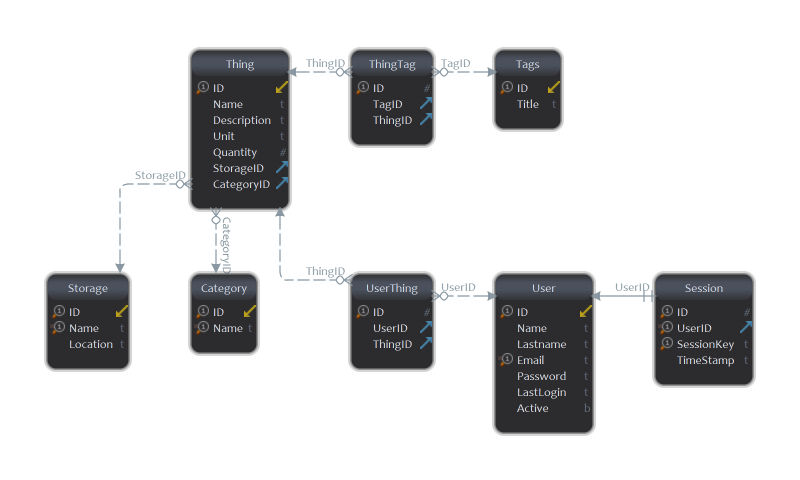
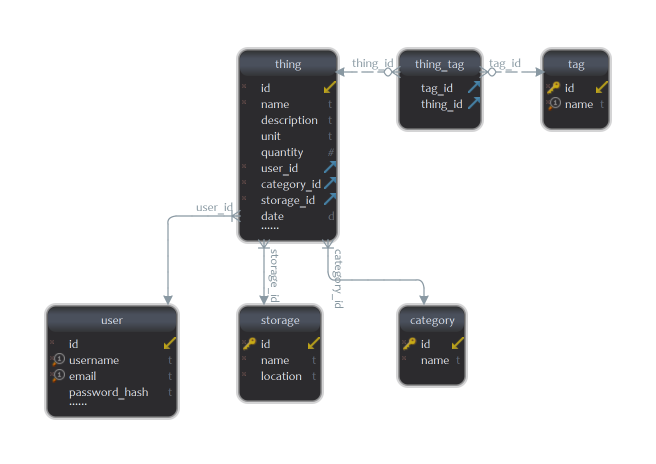
Fix sql schema and README file, fix minor tipo on things view

diff --git a/things_organizer/templates/_sidebar.html b/things_organizer/templates/_sidebar.html
@@ -14,7 +14,7 @@
           <div class="dropdown-divider"></div>
         {% endif %}
         <!--<h6 class="dropdown-header">Logs:</h6>-->
-        <!--<a class="dropdown-item" href="{{ url_for('logs') }}">View logs</a>-->
+        <!--<a class="dropdown-item" href="">View logs</a>-->
         <!--<div class="dropdown-divider"></div>-->
         <h6 class="dropdown-header">Others:</h6>
         <a class="dropdown-item" href="/about">About</a>

diff --git a/things_organizer/db/db_models.py b/things_organizer/db/db_models.py
@@ -142,7 +142,7 @@ class Category(database.Model):
     """
 
     id = database.Column(database.Integer, primary_key=True)
-    name = database.Column(database.String(50), nullable=False)
+    name = database.Column(database.String(50), unique=True, nullable=False)
 
     def __repr__(self):
         return '<Category %r>' % self.name
@@ -155,7 +155,7 @@ class Storage(database.Model):
     """
 
     id = database.Column(database.Integer, primary_key=True)
-    name = database.Column(database.String(50), nullable=False)
+    name = database.Column(database.String(50), unique=True, nullable=False)
     location = database.Column(database.String(120), nullable=False)
 
     def __repr__(self):

diff --git a/things_organizer/__init__.py b/things_organizer/__init__.py
@@ -20,7 +20,8 @@ from things_organizer.api import categories, storages, tags
 
 
 app = flask.Flask(__name__, static_url_path="/static")
-app.config['SQLALCHEMY_DATABASE_URI'] = "sqlite:///{}".format(os.path.join(utils.DB_PATH, "test.db"))  # common.DB_NAME
+app.config['SQLALCHEMY_DATABASE_URI'] = "sqlite:///{}".format(os.path.join(utils.DB_PATH,
+                                                                           "test.db"))
 app.config['SECRET_KEY'] = os.urandom(16)
 
 DB = SQLAlchemy(app)

diff --git a/things_organizer/views.py b/things_organizer/views.py
@@ -83,7 +83,7 @@ def handle_add_thing():
                                     unit=unit, quantity=quantity)
         DB.session.add(thing_obj)
         DB.session.commit()
-        flask.flash("Stored '{}'".format(thing_obj.description))
+        flask.flash("Stored '{}'".format(thing_obj.name))
         template_return = flask.redirect(flask.url_for('handle_things'))
     else:
         template_return = flask.render_template('add_thing.html', form=form)

diff --git a/README.md b/README.md
@@ -55,43 +55,33 @@ For tables in the database we have use the Pascal Case
 (a.k.a [Upper Camel Case](https://en.wikipedia.org/wiki/Camel_case)) and the tables on the database
 are the following:
 
-* **Thing**
-    * ID `int`
-    * Name `str`
-    * Description `str`
-    * Unit `str`
-    * Quantity `int`
-    * StorageID `int`
-    * CategoryID `int`
-* **Category**
-    * ID `int`
-    * Name `str`
-* **Session**
-    * ID  `int`
-    * UserID `int`
-    * SessionKey `str`
-    * Timestamp `int`
-* **Storage**
-    * ID  `int`
-    * Name `str`
-    * Location `str`
-* **Tag**
-    * ID `int`
-    * Name `str`
-* **ThingTag**
-    * ThingID `int`
-    * TagID `int`
-* **User**
-    * ID `int`
-    * Name `str`
-    * Lastname `str`
-    * Email `str`
-    * Password `str`
-    * LastLogin `str`
-    * Active `bln`
-* **UserThing**
-    * ID `int`
-    * ThingID `int`
+* **thing**
+    * id `int`
+    * name `str`
+    * description `str`
+    * unit `str`
+    * quantity `int`
+    * storage_id `int`
+    * category_id `int`
+    * date `date`
+* **category**
+    * id `int`
+    * name `str`
+* **storage**
+    * id  `int`
+    * name `str`
+    * location `str`
+* **tag**
+    * id `int`
+    * name `str`
+* **thing_tag**
+    * thing_id `int`
+    * tag_id `int`
+* **user**
+    * id `int`
+    * username `str`
+    * email `str`
+    * password_hash `str`
 
 #### Database Schema:
 
@@ -114,24 +104,20 @@ As you can see in the image above there are some uniques columns on tables, whic
       <th>Column</th>
     </tr>
     <tr>
-      <td><code>Storage</code></td>
-      <td>Name</td>
+      <td><code>storage</code></td>
+      <td>name</td>
     </tr>
     <tr>
-      <td><code>Category</code></td>
-      <td>Name</td>
+      <td><code>category</code></td>
+      <td>name</td>
     </tr>
     <tr>
-      <td><code>User</code></td>
-      <td>Email</td>
+      <td><code>user</code></td>
+      <td>email</td>
     </tr>
     <tr>
-      <td><code>Session</code></td>
-      <td>SessionKey</td>
-    </tr>
-    <tr>
-      <td><code>Session</code></td>
-      <td>UserID</td>
+      <td><code>user</code></td>
+      <td>username</td>
     </tr>
   </table>
 </center>
